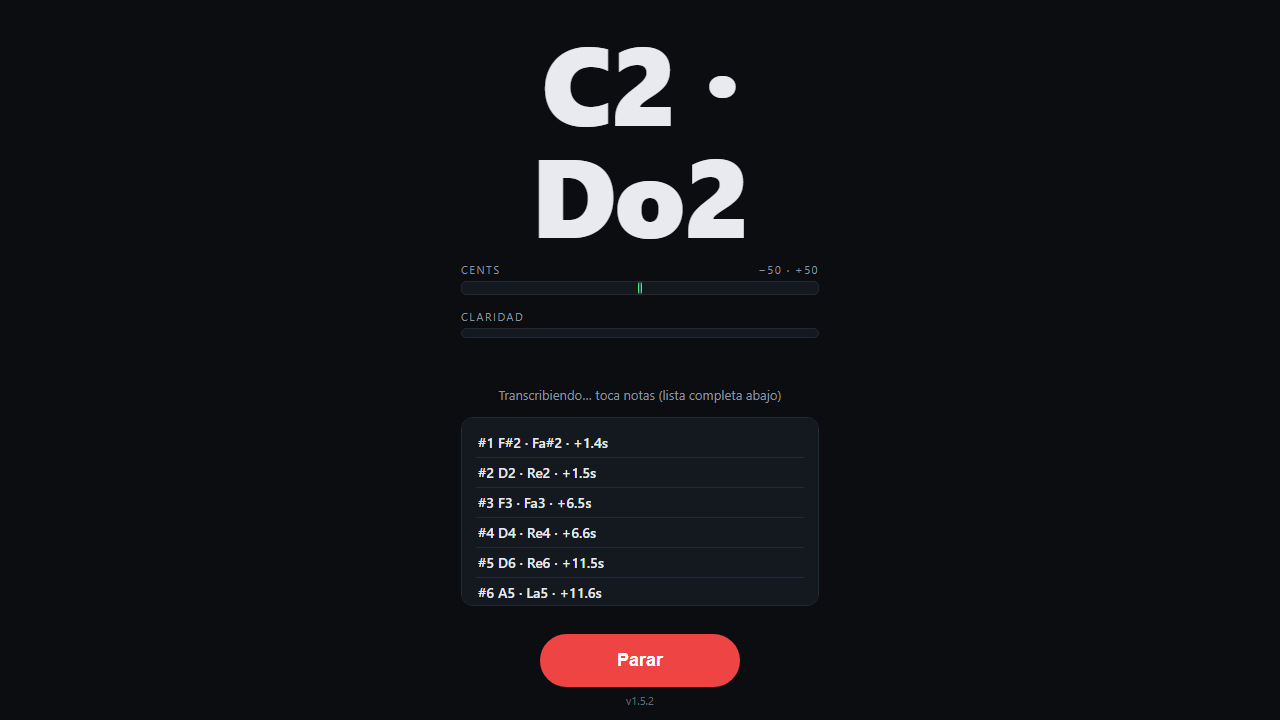
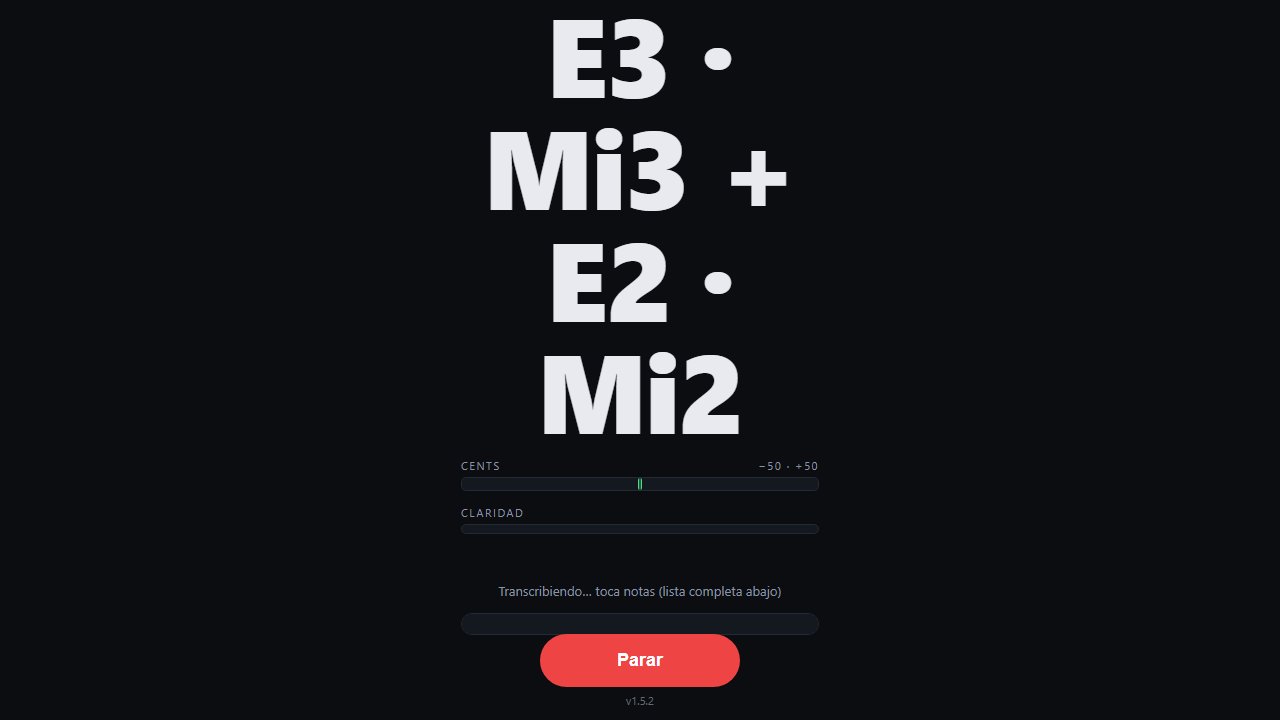
v1.5.2: fix segStartT (se calculaba tras avanzar txProcIdx → timestamps negativos)

Changed region(s): [[0.3438, 0.0306, 0.625, 0.4583], [0.3438, 0.4889, 0.625, 0.8556]]

diff --git a/js/app.js b/js/app.js
@@ -439,13 +439,12 @@
     if (avail < 240000) return;
     var start = txProcIdx % ringLen;
     var count = 240000; // ventana de análisis de 5s
+    var segStartAbs = txProcIdx; // muestra absoluta donde empieza la ventana
     var seg = new Float32Array(count);
     var firstPart = Math.min(count, ringLen - start);
     seg.set(txRing.subarray(start, start + firstPart), 0);
     if (count > firstPart) seg.set(txRing.subarray(0, count - firstPart), firstPart);
     txInferring = true;
-    var segStartT = (txProcIdx - count) / ctx.sampleRate; // seg del segmento en s absolutos
-
     // resamplear 48k → 22050 (linear; suficiente para detección, el modelo hace su STFT)
     var targetSR = 22050;
     var outLen = Math.floor(count / ctx.sampleRate * targetSR);
